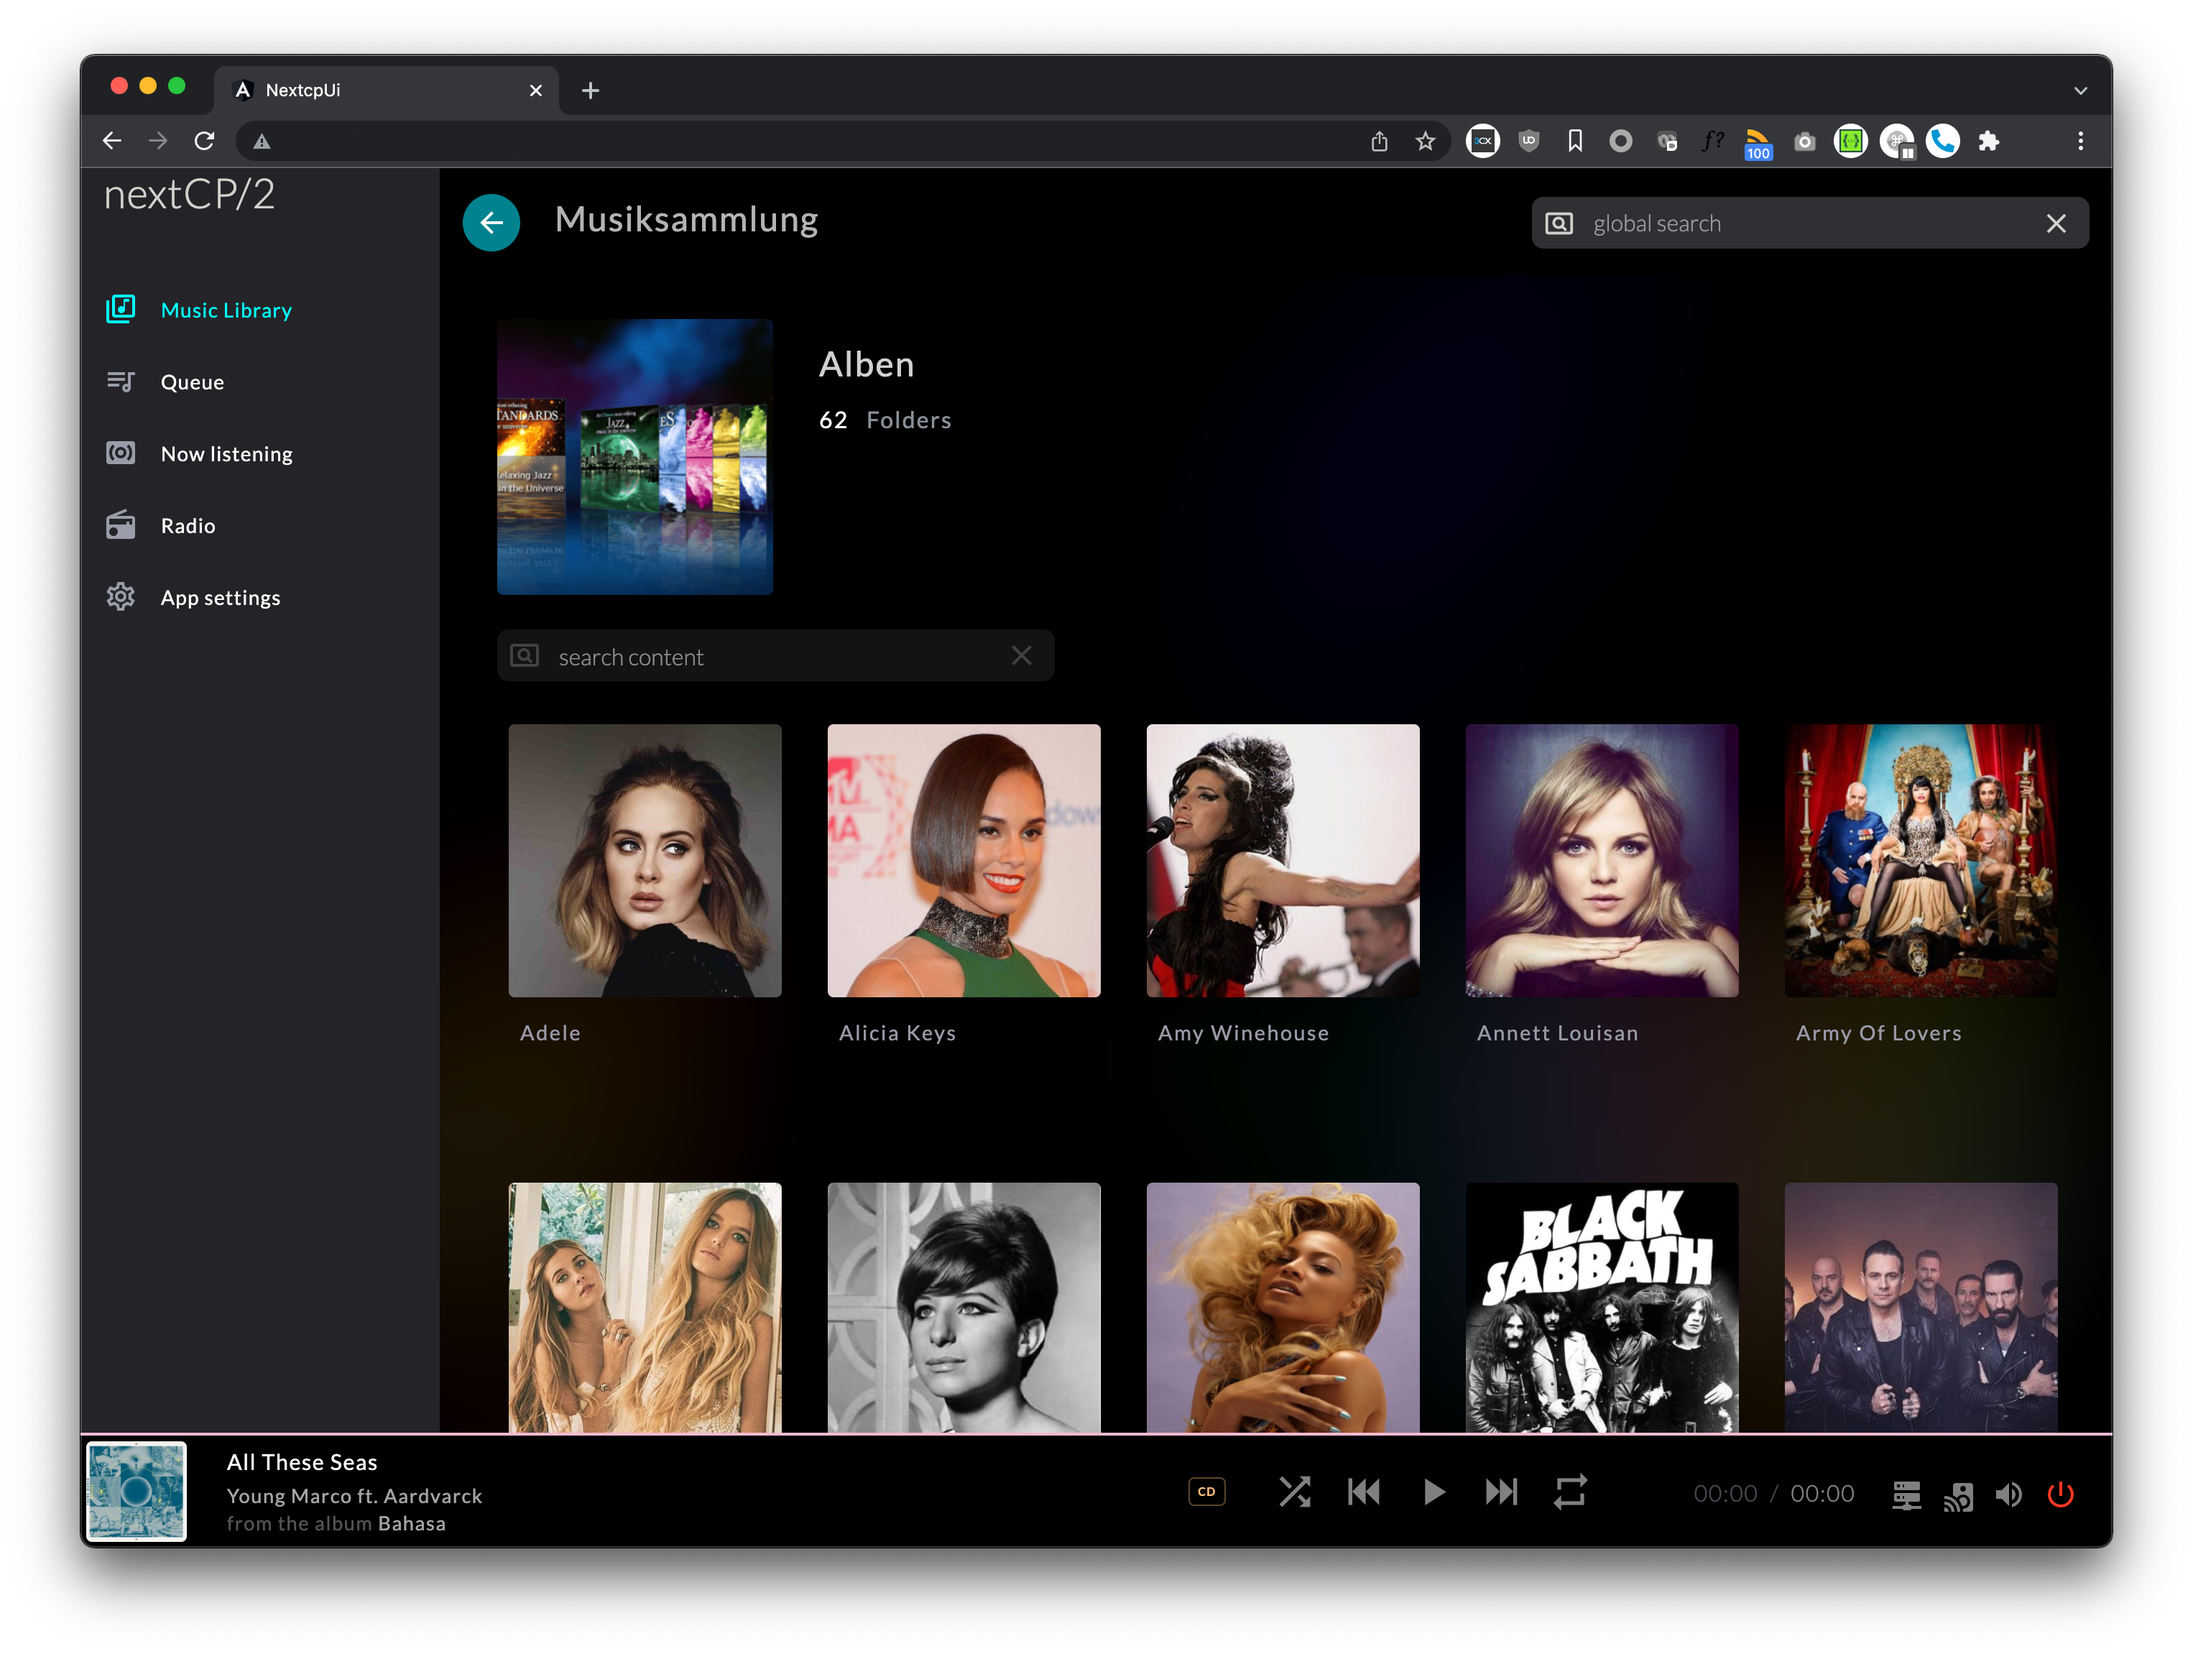
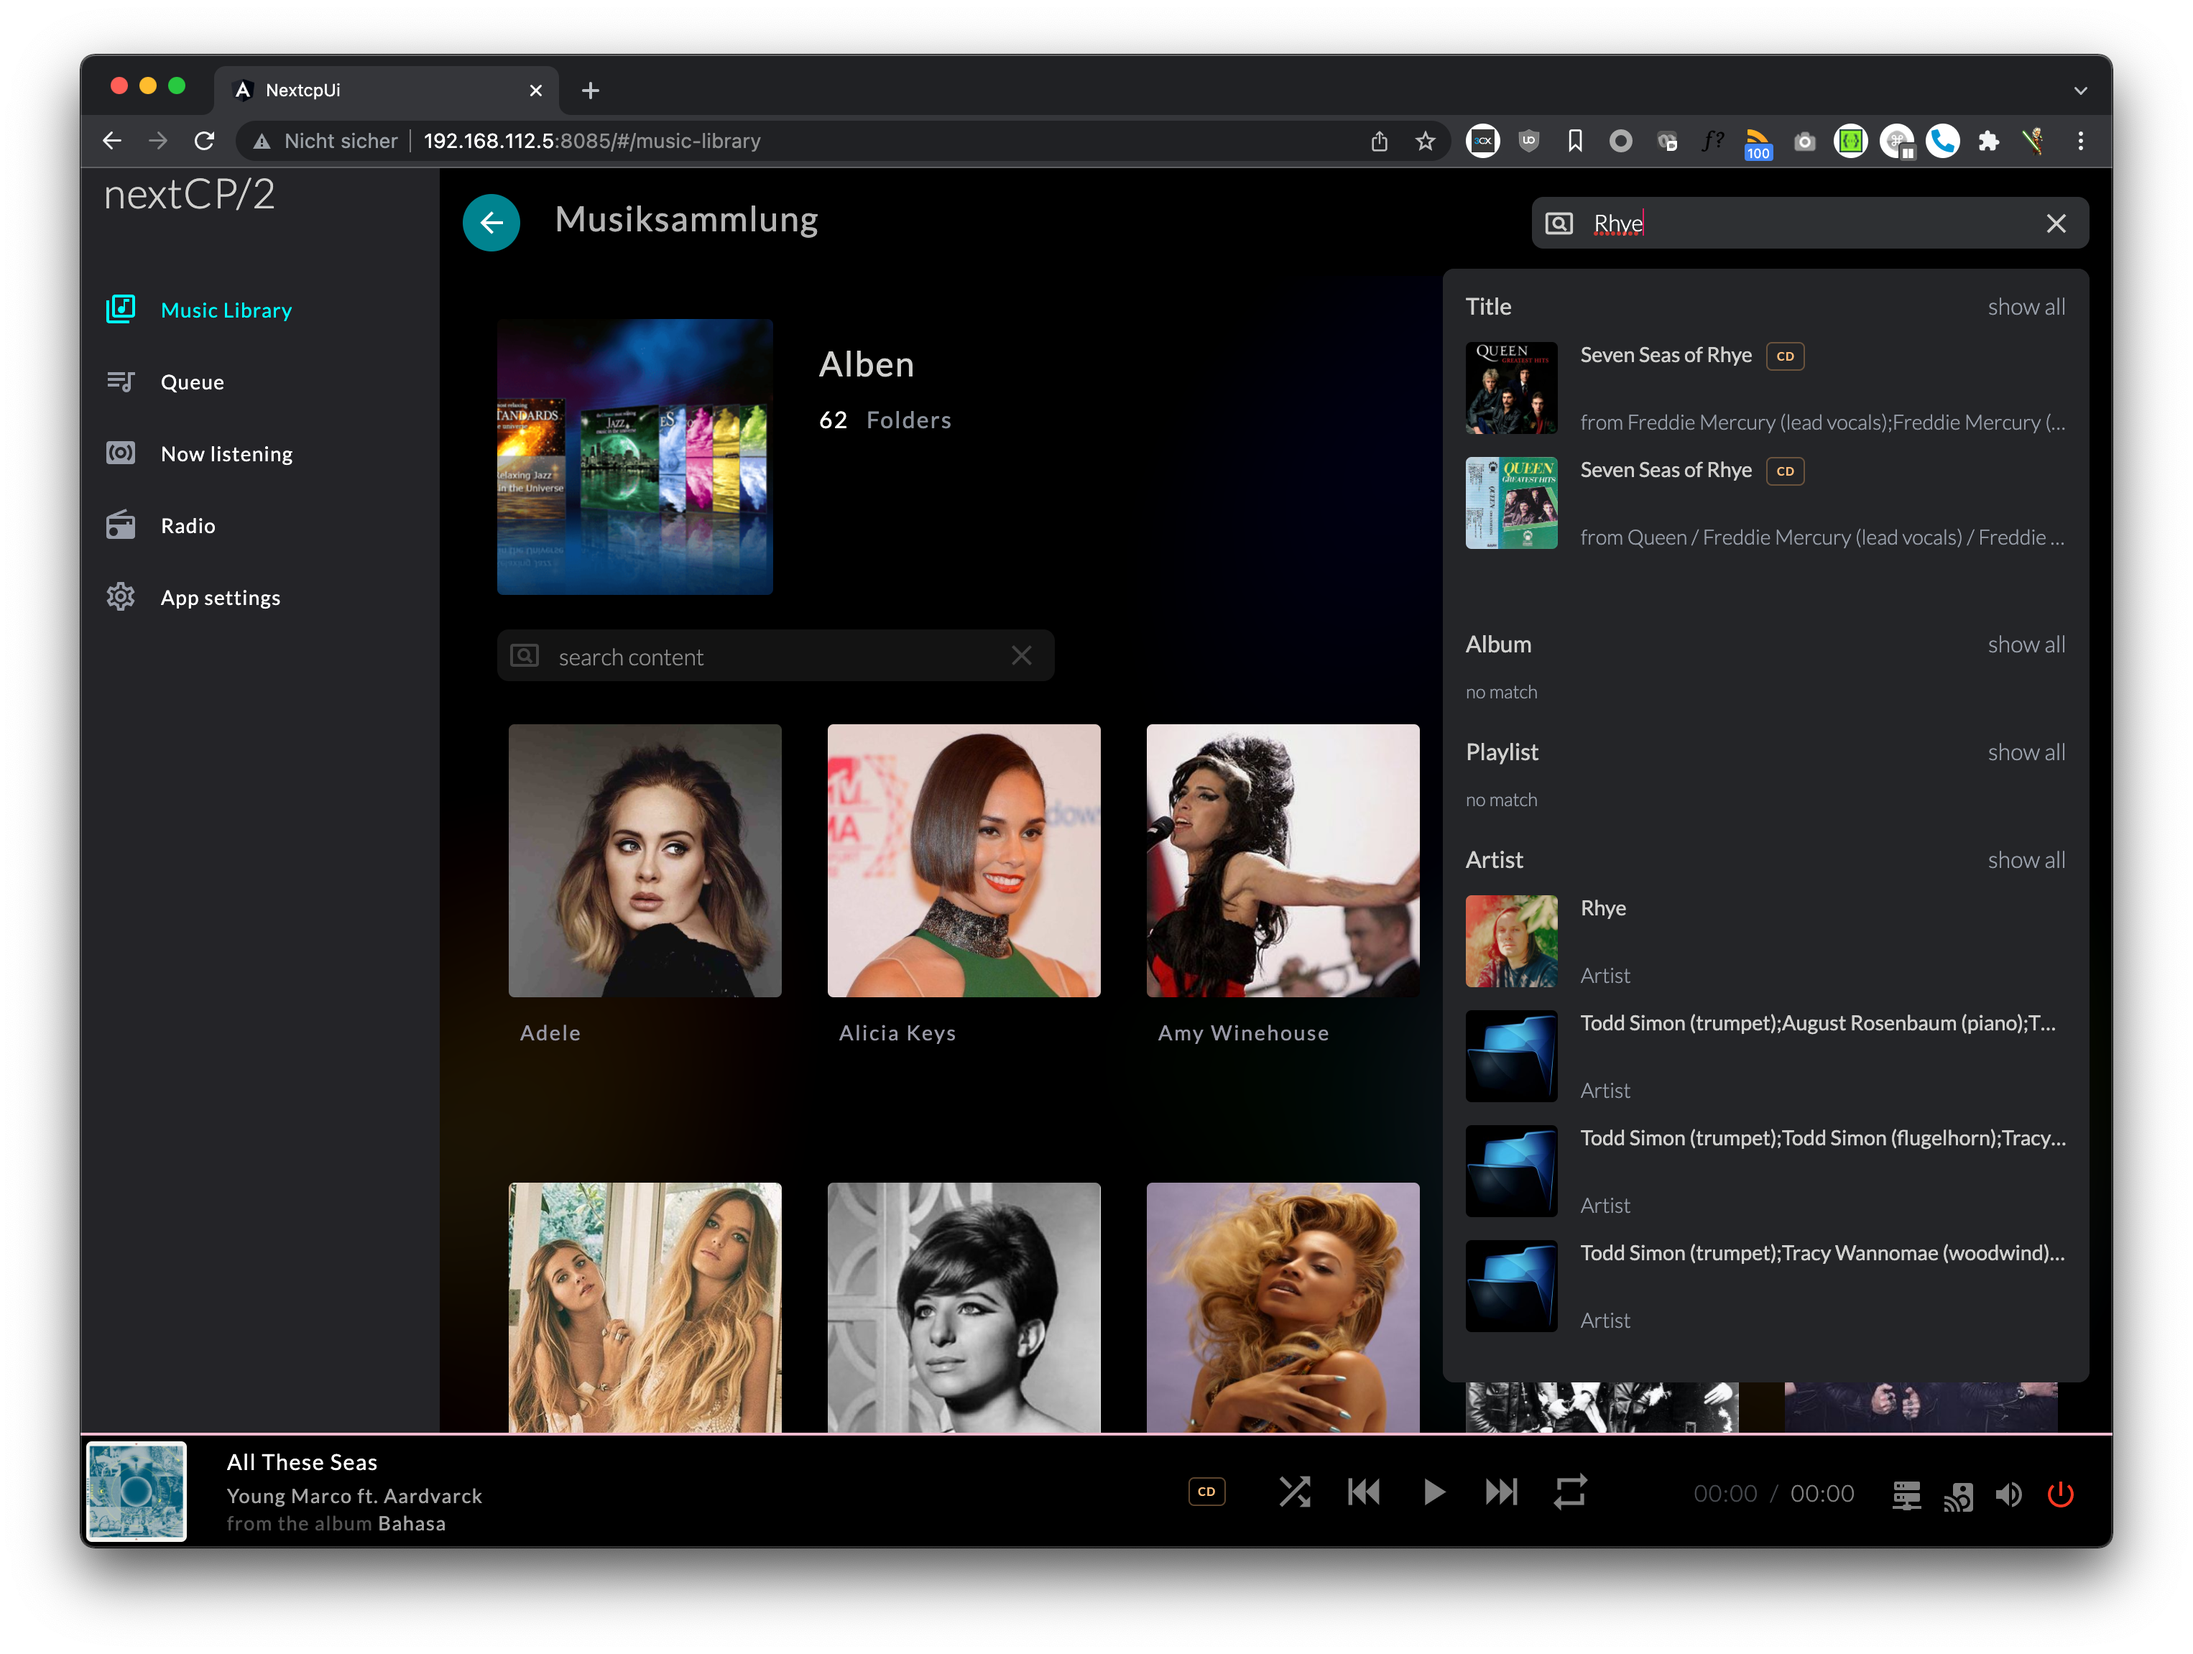
more documentation

Changed region(s): [[0.6537, 0.1234, 0.9649, 0.8328], [0.1868, 0.0617, 0.3424, 0.0925]]

diff --git a/index.html b/index.html
@@ -43,11 +43,11 @@
     <!-- CDS -->
     <div class="head">User Interface</div>
     <div class="subhead">
-      Content Directory Browsing
+      Music Library
     </div>
     <div class="bodytext">
-      Before browsing your media library select a media server from the <b>I/O settings</b>, or define a default media
-      server in the <b>App Setting</b>
+      Before browsing your media library select a media server from the server popup button in the lower right corner, 
+      or define a default media server in the <b>App setting</b>.
 
       Folders, playlists and music items are displayed in separate sections.
     </div>
@@ -86,16 +86,27 @@
       For some features to work songs need to be identified uniquely. Therefore
       <ul>
         <li>
-          the content delivery server needs to provide additional metadata (musicBrainzID). A known server is : <a href="https://www.universalmediaserver.com/">Universal Media Server</a>.
+          the content delivery server needs to provide additional metadata (musicBrainzID). Known working implementation is : <a href="https://www.universalmediaserver.com/">Universal Media Server</a>.
         </li>
         <li>
-          the Indexer (config file) is configured to the same music library location which the content directory server uses.
+          the Indexer (config file) is configured to the same music library location which the content directory server uses
         </li>
         <li>
-          the audio files are tagged with musicBrainzID.
+          the audio files must be tagged with musicBrainzID (trackId)
         </li>
       </ul>
-      In this case songs can be star rated (backend: local file and musicbrainz.org), added to and removed from server side playlists, downloaded and more ...
+      In case a song can be identified
+      <ul>
+        <li>
+          rating support (update local file and update of personal musicbrainz.org account)
+        </li>
+        <li>
+          <b>add</b> and <b>remove</b> songs to/from server side playlists
+        </li>
+        <li>
+          file download
+        </li>
+      </ul> is activated.
     </div>
 
     <img src="img/browse_title.png" class="img-fluid" alt="Content Directory Brwosing">
@@ -105,10 +116,10 @@
       UPnP search
     </div>
     <div class="bodytext">
-      If the content delivery server (media server) supports UPnP search requests, searches over the entire content database can be done. 
+      Entering text into the <b>global search</b> box initiates a search through the media server database. 
       Known media server with working UPnP search capabilities are <a href="https://minimserver.com/">Minimserver</a> 
       and <a href="https://www.universalmediaserver.com/">Universal Media Server (since 10.6.0)</a>.
-      Entered text will be matched against tracks, albums, playlists and artists.
+      Text will be matched against tracks, albums, playlists and artists.
       <img src="img/search.png" class="img-fluid" alt="search result">
 
       <!-- Playlist -->
@@ -116,7 +127,7 @@
         Renderer Playlist
       </div>
       <div class="bodytext">
-        Displays the current playlist from the selected player. The active song is highlighted. nextCP/2 supports native
+        Displays the current playlist of the selected media player. The active song is highlighted. nextCP/2 supports native
         OpenHome playlists, as well as control point based playlist for regular UPnP devices.
       </div>
       <div class="bodytext">
@@ -154,8 +165,13 @@
       </div>
       <div class="bodytext">
         List af discovered media renderer. If enabled switch is set and the device is online, the media renderer will be
-        available as a select option in the output drop down. If the media renderer should be controlled by another path
-        but UPnP, select a device driver and enter a configuration string.
+        available as a select option in the output drop down.        
+      </div>
+      <div class="bodytext">
+        If the media renderer is attached to a physical receiver / AV-device with remote control capability, 
+        select a proper device driver and enter a device driver configuration string. A McIntosh device driver is available for download.
+        It is recommended to set the media rendere volume to 100% if a device driver is selected. The device
+        driver notices a device power on state and can apply a default volume after powering up. 
       </div>
 
       <img src="img/settings.png" class="img-fluid" alt="Settings">
@@ -170,11 +186,13 @@
           <li>Browse Content Directory Server</li>
           <li>Search Content Directory Server</li>
           <li>UPnP Playlist support</li>
+          <li>Display artist image in search if spotify account is linked</li>
           <li>star rating support if songs are tagged with musicBrainzID</li>
           <ul>
             <li>import star rating from song files metadata section</li>
             <li>optional export star rating to musicBrainz (account required)</li>
             <li>optional save star rating into song files metadata section</li>
+            <li>edit server based playlists</li>
           </ul>
           <li>Openhome Playlist support</li>
           <li>play web radio</li>
